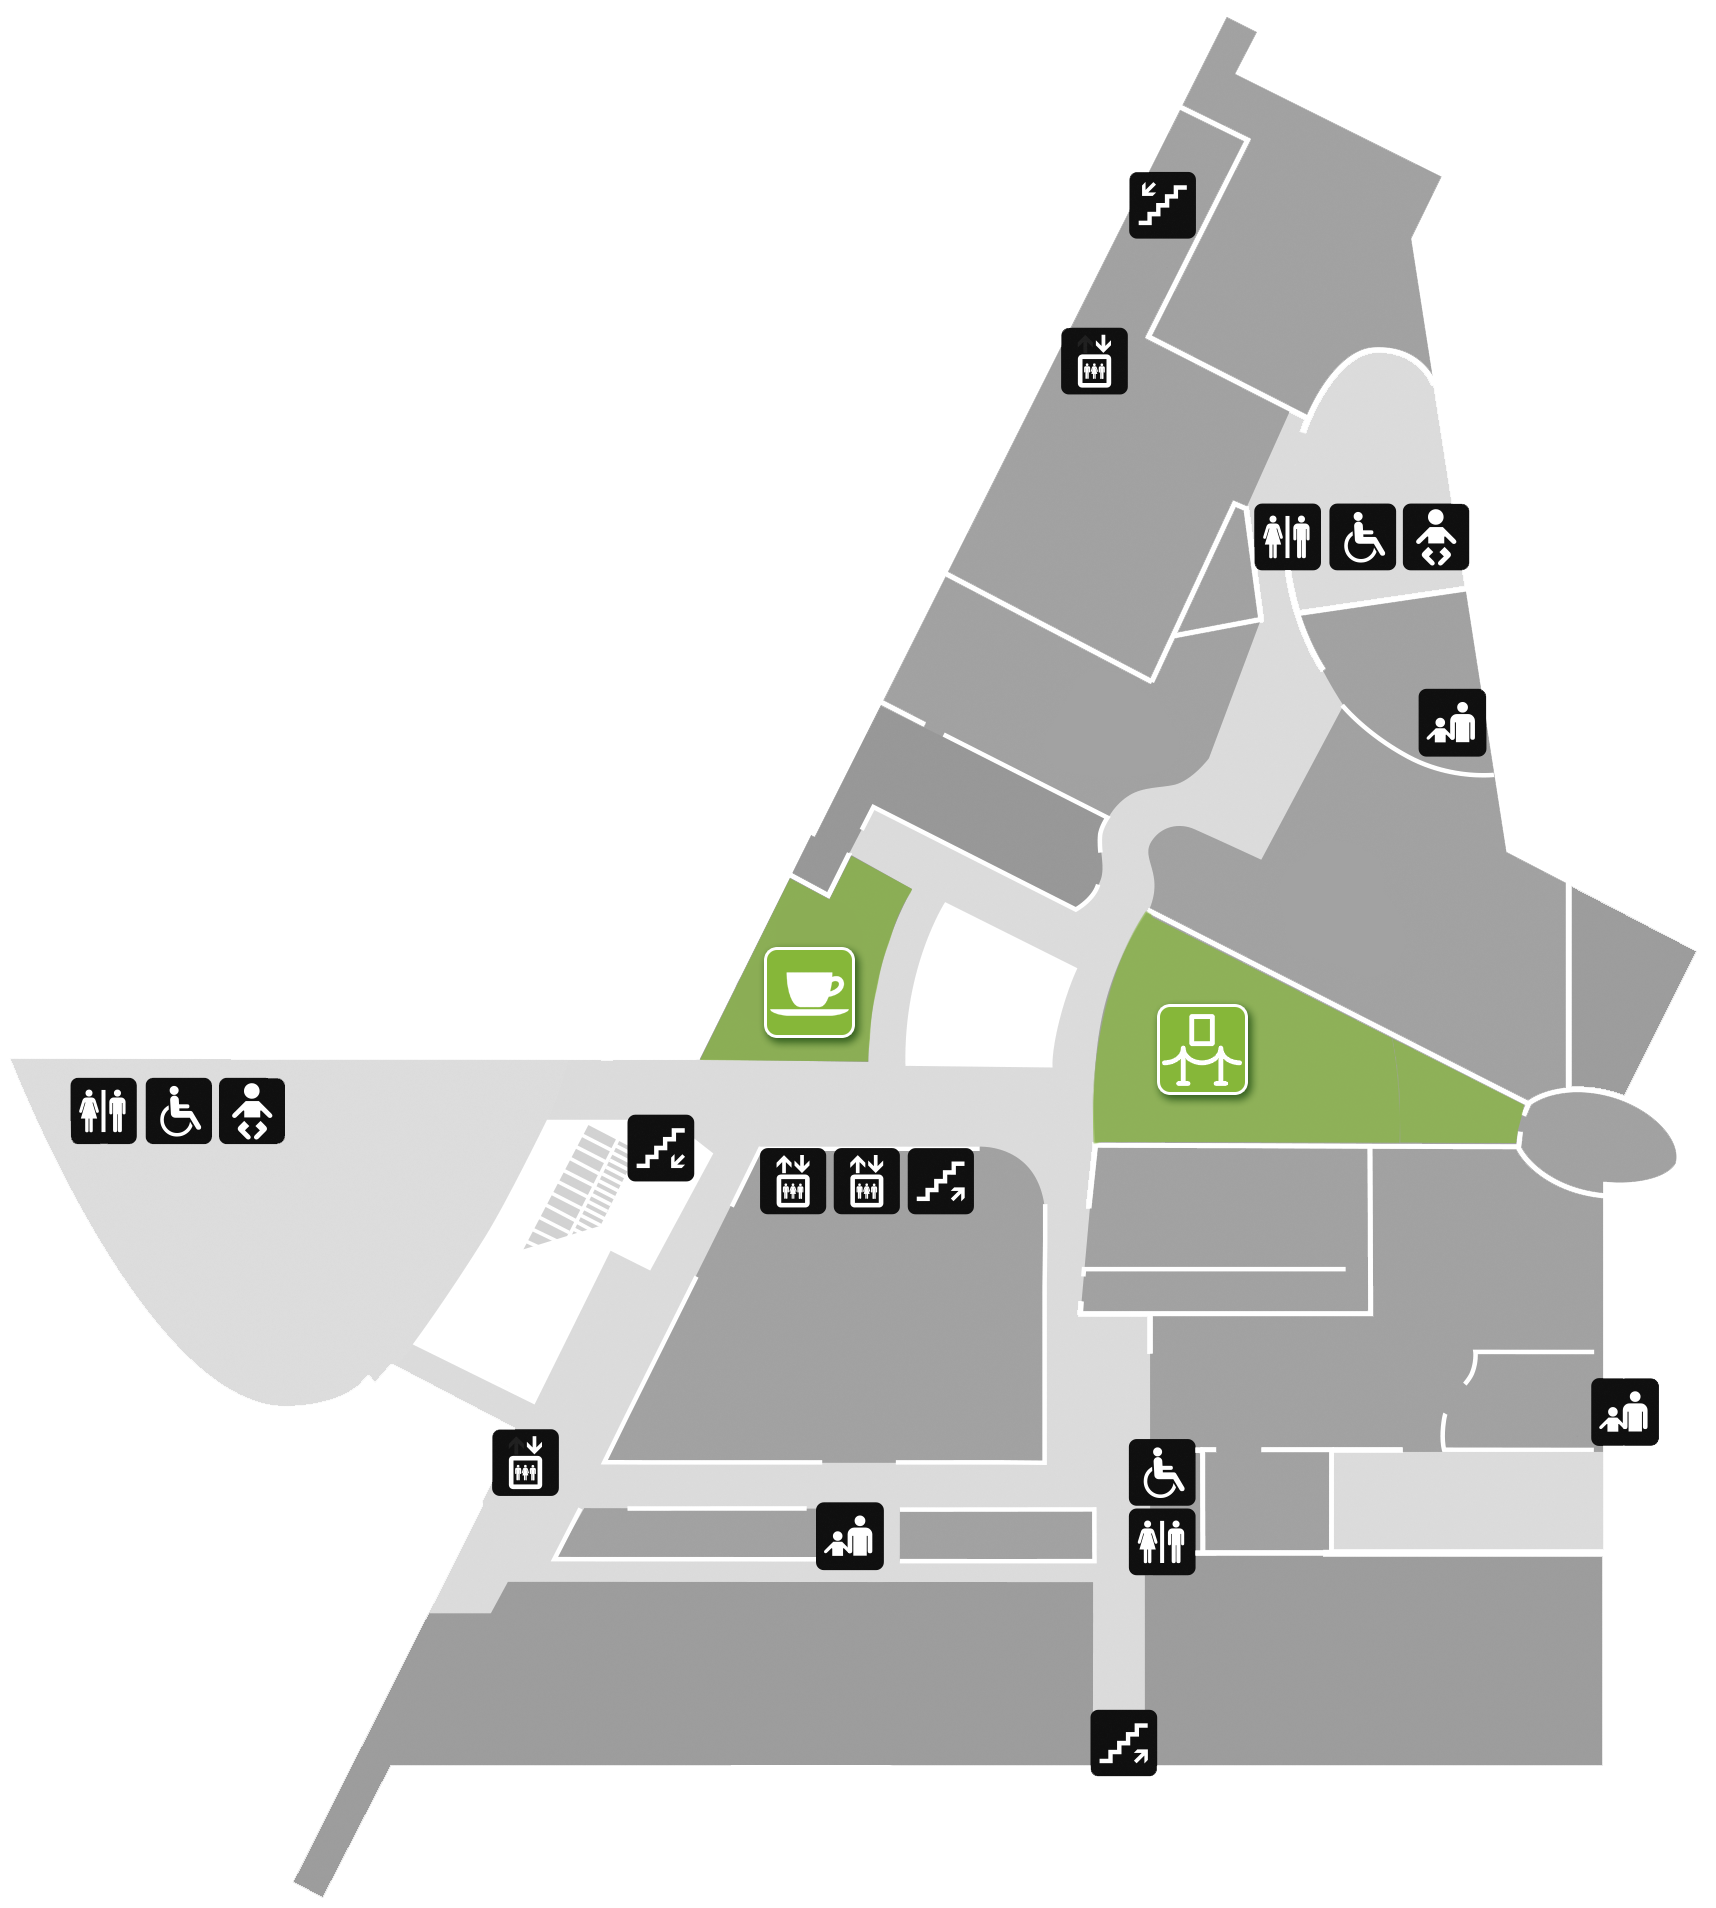
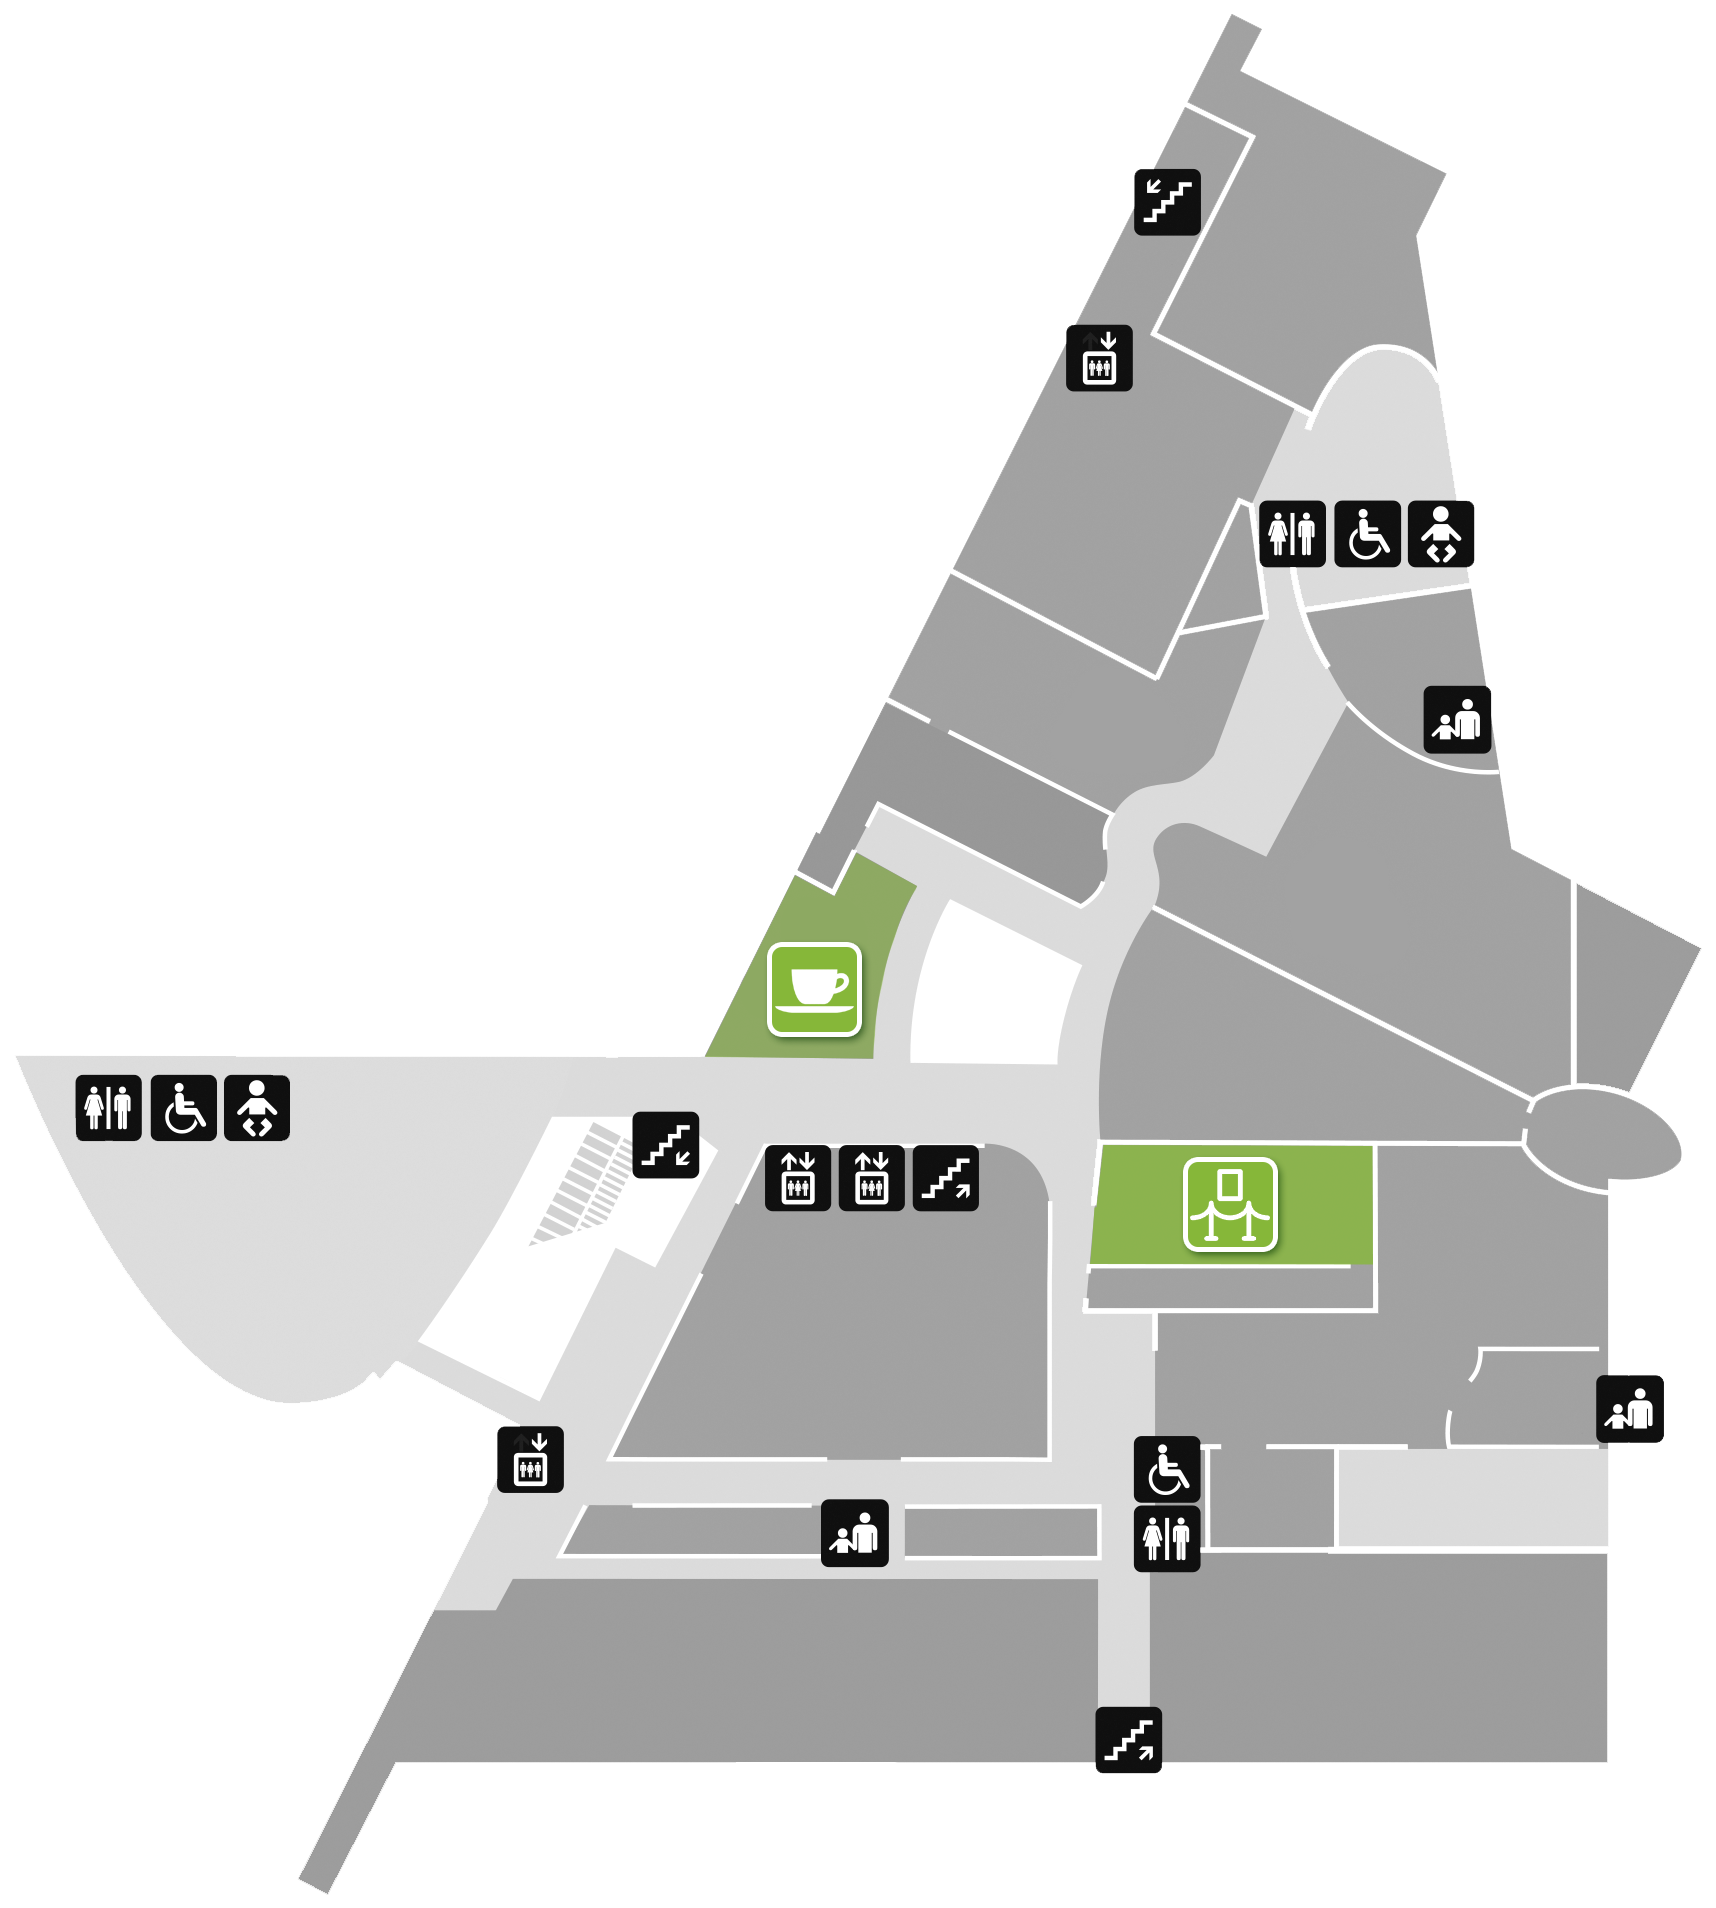
Add exhibition popup on image map

diff --git a/maps/level4.html b/maps/level4.html
@@ -42,25 +42,31 @@
 
     <div class="content">
 
-      <center>
         <section id="l4-m">
           <div class="parent">
             <div class="panzoom">
               <img src="../images/maps/level_4_map.png" height="1001" width="900" usemap="#level4-map">
               <map name="level4-map" id="level4">
                 <area shape="rect" name="level4-espresso" coords="399,497,450,547" href="#level4-espresso" alt="espresso" title="Level 4 Espresso"/>
-                <area shape="rect" name="collections" coords="605,526,656,576" href="../collection.html" alt="collections" title="Collections"/>
+                <area shape="rect" name="passports" coords="621,608,671,658" href="#passports" alt="passports" title="Passports Exhibition"/>
               </map>
             </div>
           </div>
         </section>
-      </center>
 
       <div id="overlay"></div>
       <div id="level4-popup-espresso" class="popup">
         <center><img src="../images/espresso_img.jpg"></center>
         <h3><b><font color="#78A334">█ Espresso</font></b> <span style="font-weight: 400; font-size: 17px;">Pēhikawhe</span></h3>
         <p align="justify">Relax in a comfy seat in the heart of the museum, and enjoy a light snack and coffee or wine.</p>
+      </div>
+
+      <div id="level4-popup-passports" class="popup">
+        <center><img src="../images/thumbnails/passports_exhibition.jpg"></center>
+        <h3><b><font color="#78A334">█ Passports</font></b> <span style="font-weight: 400; font-size: 17px;">Uruwhenua</span></h3>
+        <p align="justify">The story of New Zealand is one of journeys and arrivals – people leaving home to come here.
+        Uncover the remarkable stories of people who migrated to New Zealand over the last 200 years.</p>
+        <p align="right"><a href="../collection.html">Read more </a><i class="fa fa-angle-right" aria-hidden="true"></i></p>
       </div>
 
     </div>

diff --git a/js/maps.js b/js/maps.js
@@ -54,6 +54,9 @@ $(function() {
     }  else if (name === "level4-espresso") {
       $('#level4-popup-espresso').fadeIn(300);
       $(window).trigger('resize');
+    } else if (name === "passports") {
+      $('#level4-popup-passports').fadeIn(300);
+      $(window).trigger('resize');
     }
   });
 
